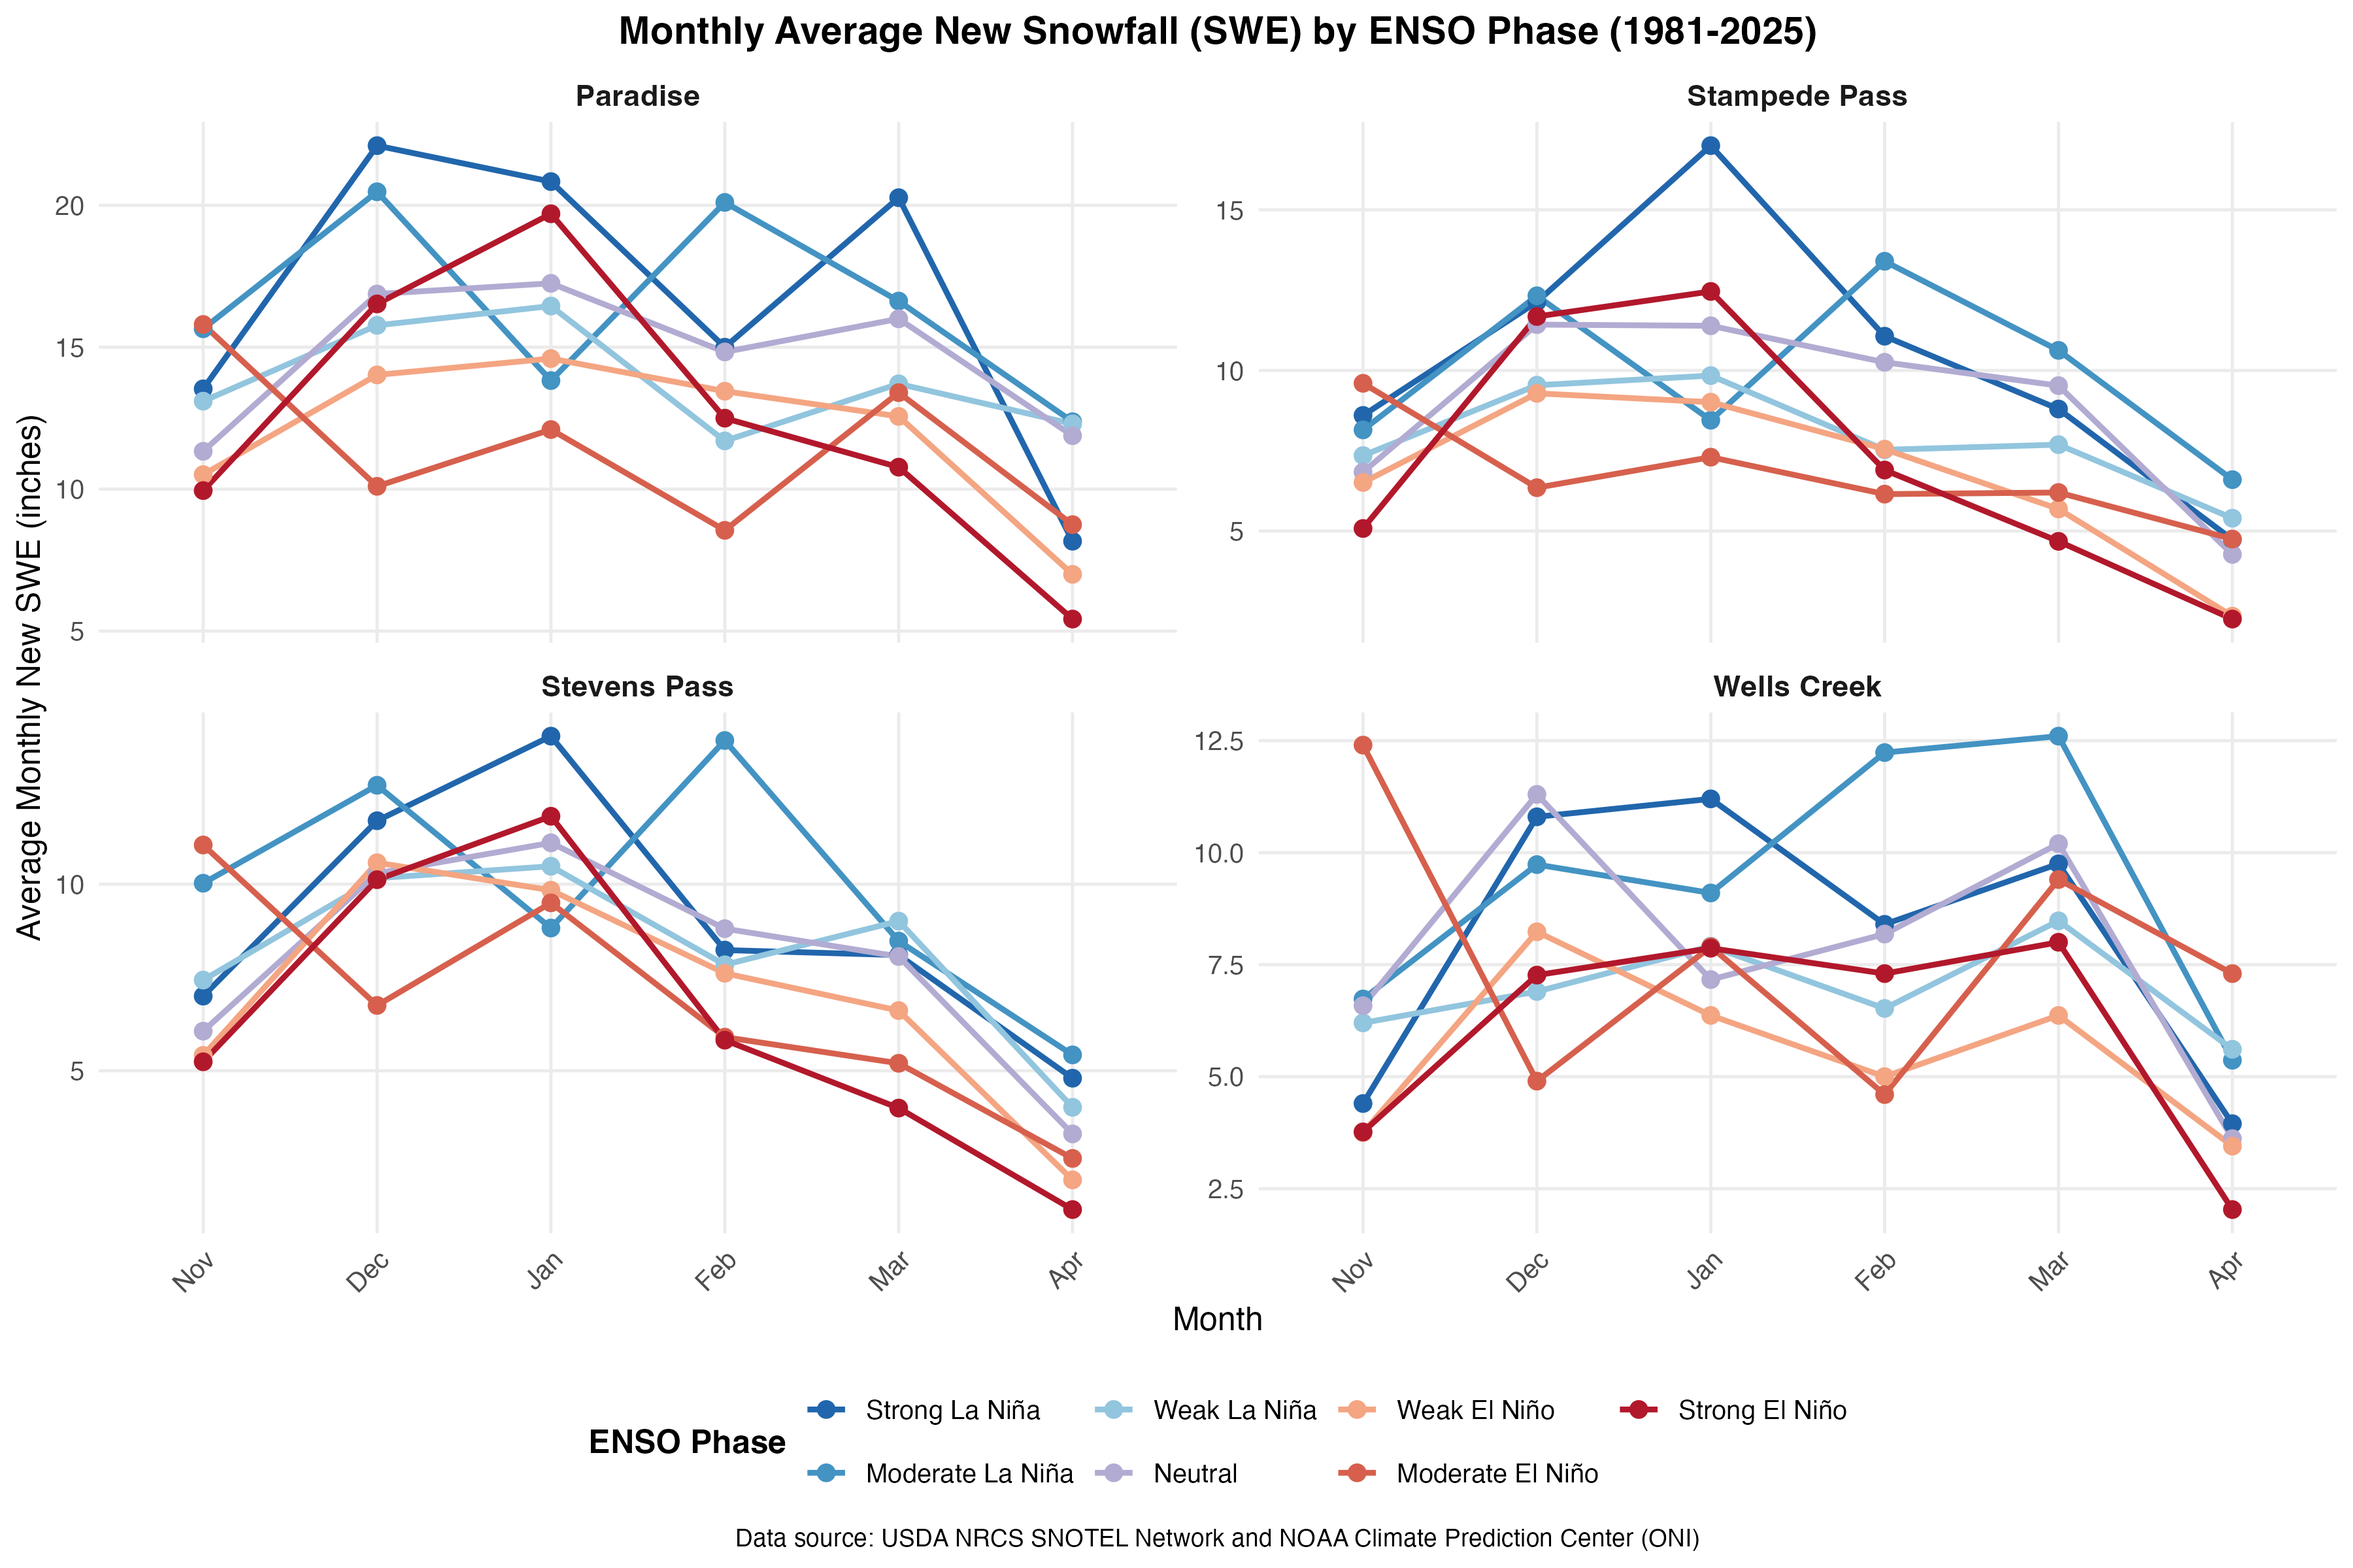
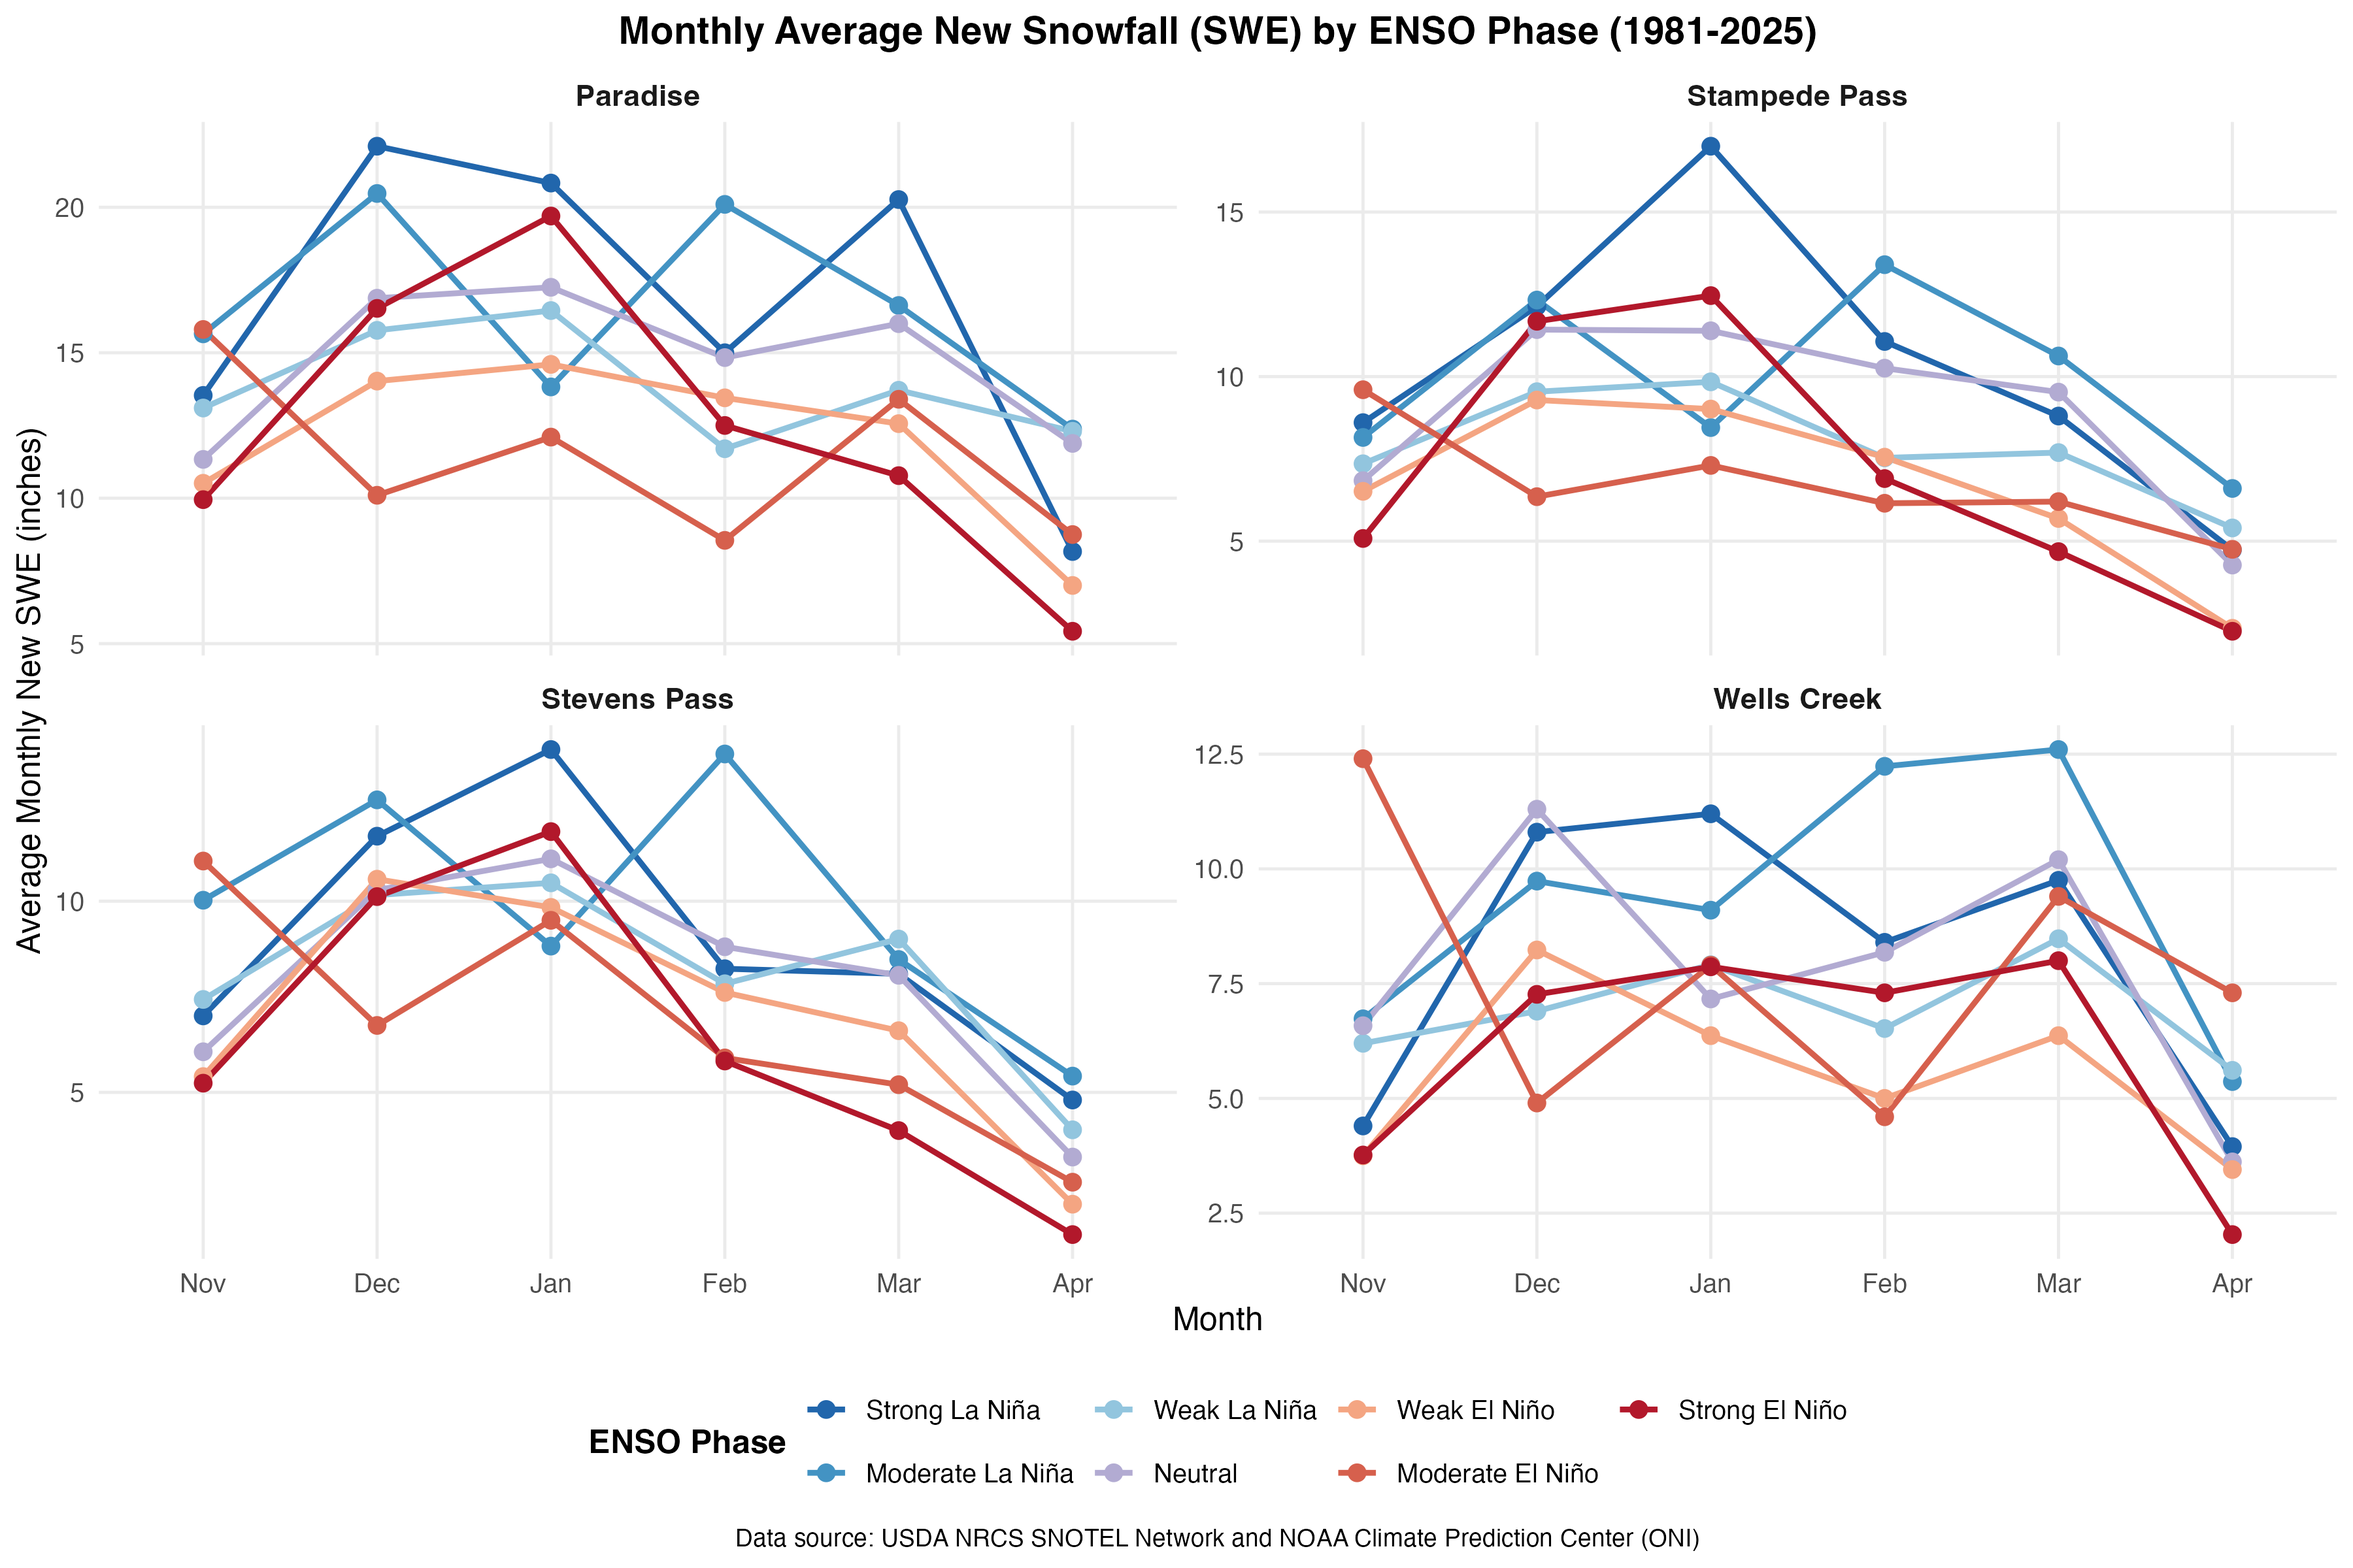
Fixed x-asis label angle.

diff --git a/prompt.md b/prompt.md
@@ -45,3 +45,7 @@ c(`Strong La Nina` = "#2166AC", `Moderate La Nina` = "#4393C3", `Weak La Nina` =
 
 "Now update the plots, results summary, and readme accordingly."
 
+Lastly, a minor nitpick was the angled x-x axis labels. I needed to guide the LLM to fix this.
+
+"For the x-asis labels, as set in axis.text.x(), use an angle of 0 degrees instead of 45 degrees."
+
